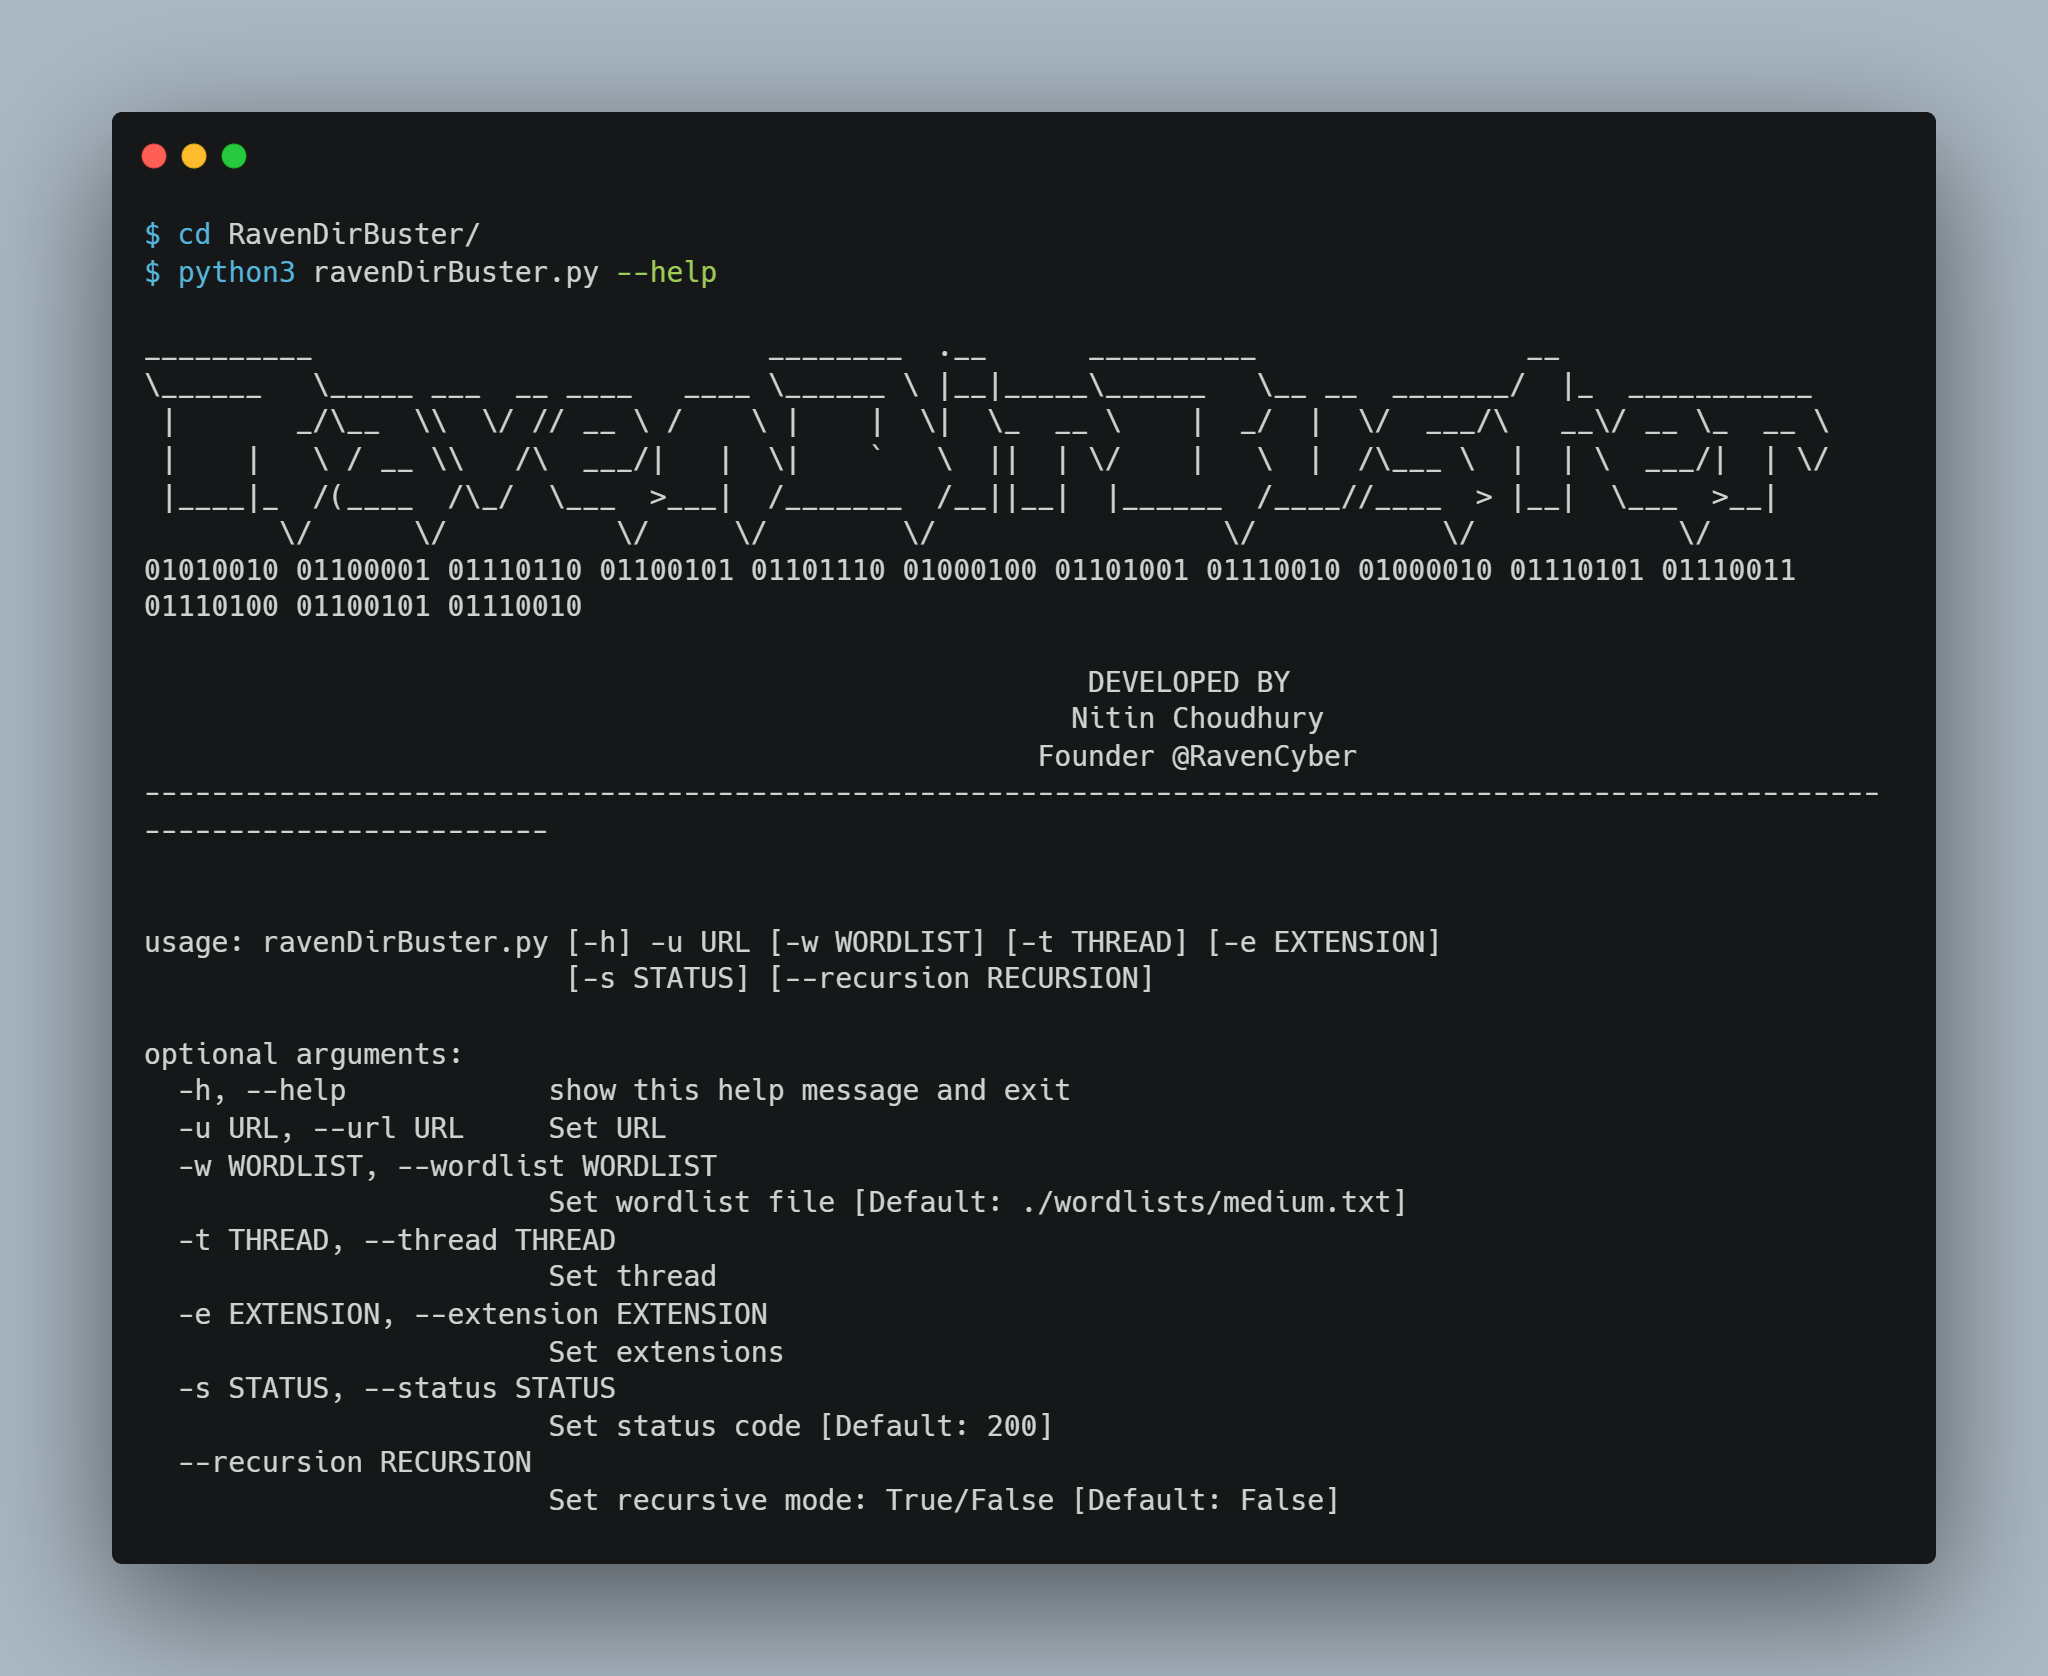
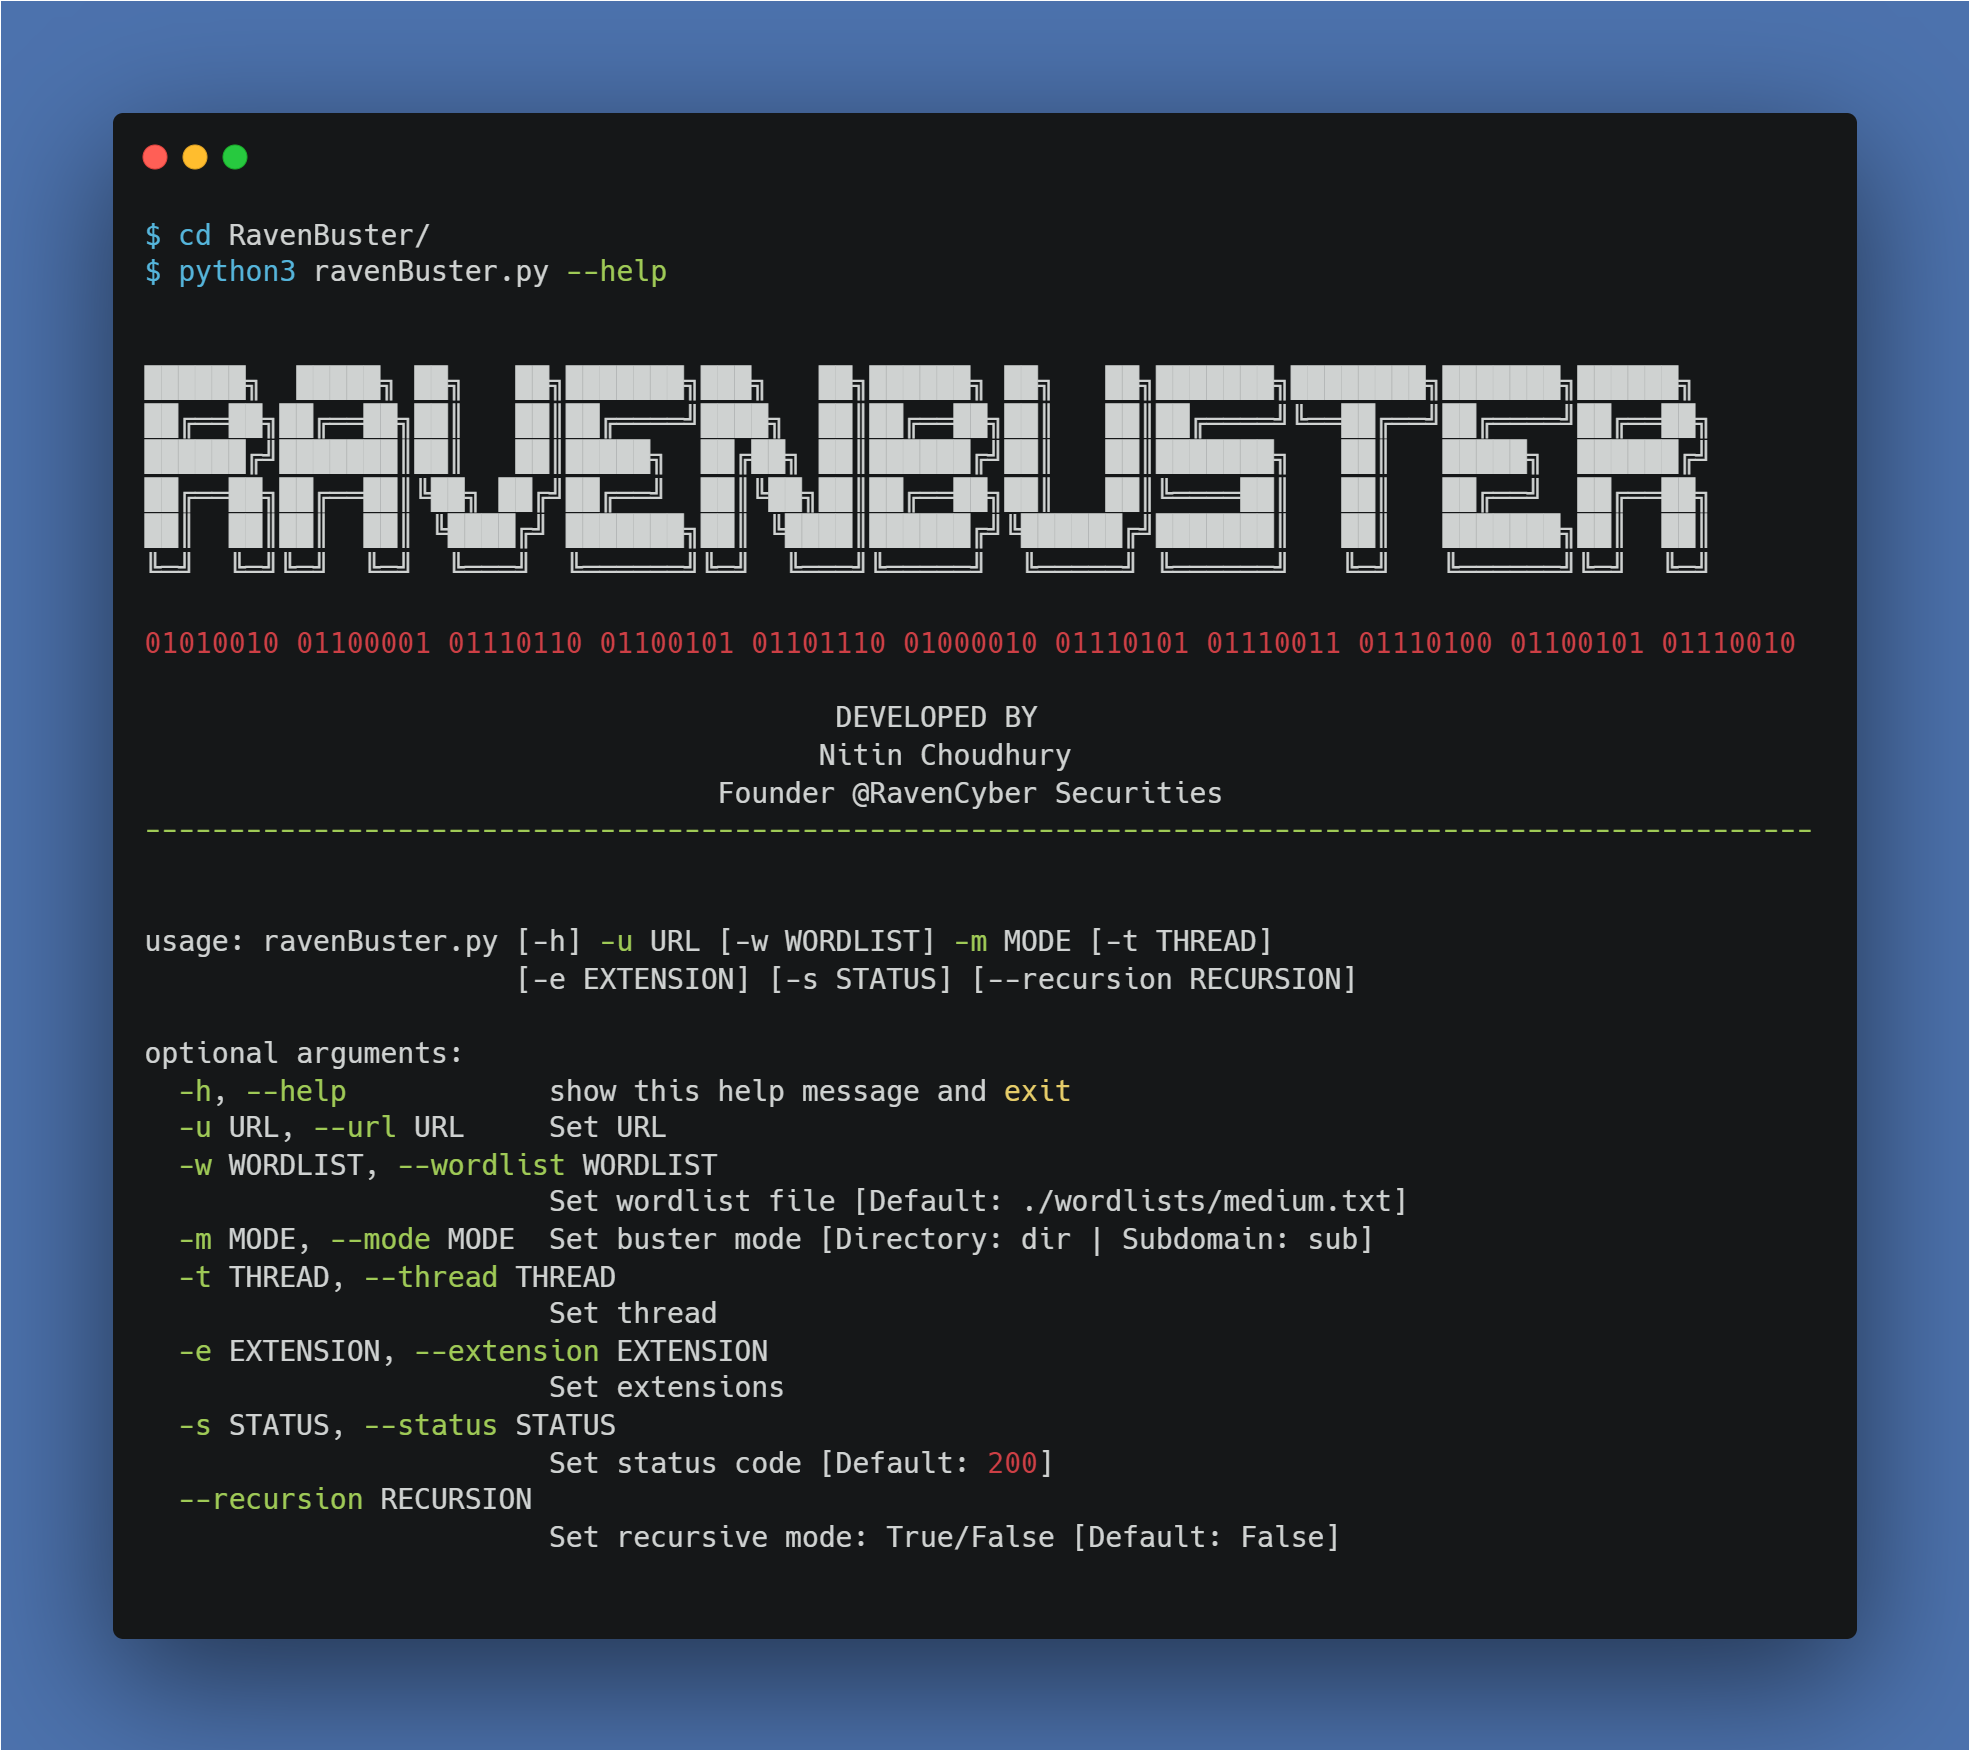
major: updated readme file

diff --git a/ravenBuster.py b/ravenBuster.py
@@ -37,6 +37,7 @@ def banner():
                                          DEVELOPED BY                                                                                                            
                                         Nitin Choudhury
                                   Founder @RavenCyber Securities
+                                        Version: 0.0.3
 ---------------------------------------------------------------------------------------------------
     
     '''
@@ -154,6 +155,7 @@ if __name__ == '__main__':
             "-m", "--mode",
             type=str,
             help="Set buster mode [Directory: dir | Subdomain: sub]",
+            choices=['sub', 'dir'],
             required=True
         )
 
@@ -182,7 +184,7 @@ if __name__ == '__main__':
             "--recursion",
             type=bool,
             help="Set recursive mode: True/False [Default: False]",
-            required=False,
+            required=False
         )
 
         args = parser.parse_args()
@@ -225,9 +227,6 @@ if __name__ == '__main__':
 
         elif bustMode=='sub':
             buster.runNonRecursive(bustMode)
-
-        else:
-            print("[!] Invalid Buster Mode!")
 
 
     except KeyboardInterrupt:

diff --git a/README.md b/README.md
@@ -1,4 +1,4 @@
-# RavenDirBuster
+# ravenBuster
 RavenBuster is a directory and file busting tool that has functionality to find directories and files using dictionary attack technique. In order to use this tool, you will be needed a dictionary or a wordlist file. 
 
 
@@ -13,46 +13,59 @@ This is a python based file. So, to run this file you will require a python envi
 ## Set-Up
 Step-1: Download the zip file or clone
 
-`git clone https://github.com/nitin293/RavenDirBuster/`
+`git clone https://github.com/nitin293/RavenBuster/`
 
 Step-2: Run the file
 
 ```
-cd RavenDirBuster/
-python3 ravenDirBuster.py --help
+cd ravenBuster/
+python3 ravenBuster.py --help
 ```
 
 ![img](./assets/img-0.png)
 
 ## Uses
 
+> DIRECTORY BUSTING
 * Run using multi-threading
 
-`python3 ravenDirBuster.py -u https://google.com --thread 100`
+`python3 ravenBuster.py -m dir -u http://localhost -w ./wordlists/medium.txt -t 100`
 
 ![img](./assets/img-1.png)
 
 
 * Run in recursive mode to find nested directories
 
-> can't be run in multi-threaded mode
+>> Can't be run in multi-threaded mode
 
-`python3 ravenDirBuster.py -u https://google.com --recursion True`
+`python3 ravenBuster.py -m dir -u http://localhost -w ./wordlists/medium.txt --recursion True`
 
 ![img](./assets/img-2.png)
 
 
 * Search for files with specific extension
 
-> Can be run with multi-threading
+>> Can be run with multi-threading
 
-`python3 ravenDirBuster.py -u https://google.com -e html,txt`
+`python3 ravenBuster.py -m dir -u http://localhost -w ./wordlists/medium.txt -e html,txt -t 100`
 
 ![img](./assets/img-3.png)
 
 
 * Run by filtering response code
 
-> can be run in multi-threaded mode
+>> can be run in multi-threaded mode
+
+`python3 ravenBuster.py -m dir -u http://localhost -w ./wordlists/medium.txt -t 100`
 
 ![img](./assets/img-4.png)
+
+
+
+
+> SUBDOMAIN BUSTING
+* Run using multi-threading
+
+`python3 ravenBuster.py -m sub -u http://localhost -w ./wordlists/medium.txt -t 100`
+
+![img](./assets/img-5.png)
